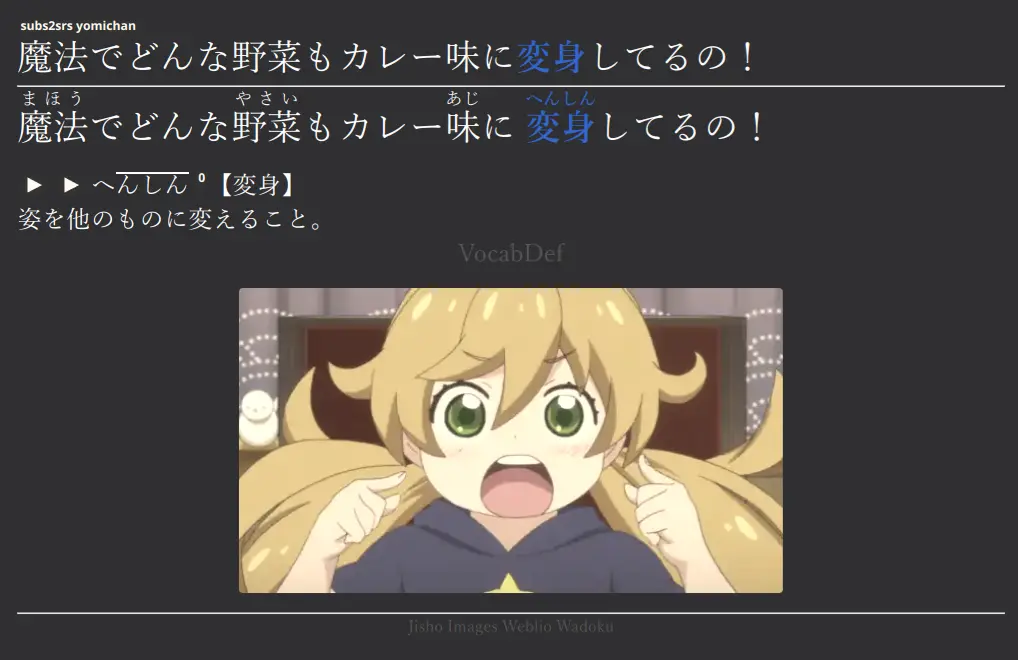
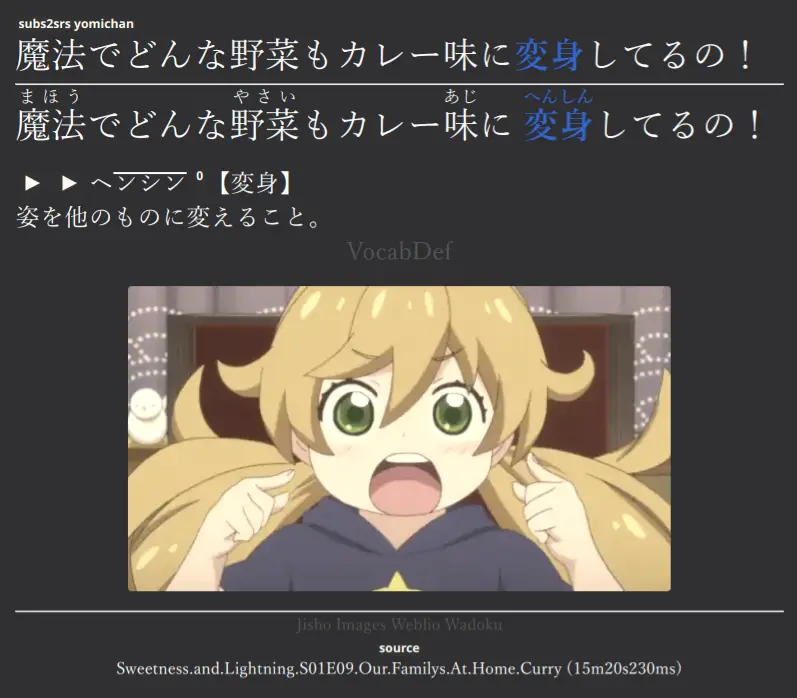
templates: cyphar: add source field
Update the "Japanese Mined Sentences (cyphar)" template to include the
source field (which is now supported by mpvacious). Also rename the
model name to match the actual name I use in Anki (but keep the template
directory name the same).

diff --git a/templates/Japanese Mined Sentences (cyphar)/README.md b/templates/Japanese Mined Sentences (cyphar)/README.md
@@ -25,6 +25,15 @@ template][original-template], with the following modifications made to the
    I find that if both definitions are visible, my eyes immediately go to the
    bilingual definition even if it wasn't necessary for me to do so.
 
+ * A new field is added `Source`, which is useful for storing information about
+   where you mined a sentence from (be it from mpvacious or Yomichan when
+   browsing some website). This can be quite handy if you find that you need to
+   adjust the sentence some time later (or add a different image on the back).
+
+   To use this with mpvacious, you need to be using a version which includes
+   [this pull-request I wrote][mpvacious-pr36], which adds support for
+   specifying a "miscellaneous information". Set `miscinfo_field=Source`.
+
 I personally use these cards for sentence mining with Yomichan and Mpvacious.
 
 |           Front           |
@@ -36,6 +45,7 @@ I personally use these cards for sentence mining with Yomichan and Mpvacious.
 | ![back](card_back_monolingual.webp)  | ![back](card_back_multilingual.webp) |
 
 [original-template]: ../Japanese%20sentences/
+[mpvacious-pr36]: https://github.com/Ajatt-Tools/mpvacious/pull/36
 
 ## Included card types
 
@@ -79,6 +89,16 @@ highlighting yourself (or don't want to highlight the target word on the card
 front), use `{sentence}` instead. Note that Yomichan can be a bit peculiar when
 deciding how much of a conjugated verb counts as "part" of the verb, so double
 check that you're happy with the automatic highlighting.
+
+Note that Yomichan will happily include the URL (and screenshot) of the
+standalone search window (such as when you're using the clipboard monitor with
+mpvacious), which isn't very useful. The card type has some JavaScript which
+will auto-hide URLs that have the `moz-extension://` protocol (as well as
+images if there was only `moz-extension://` URL sources from Yomichan), but
+you'll need to make sure you use the format described above -- it will only
+work if it's wrapped in a `id="yomichan-source"` node. Alternatively, you can
+create a conditional profile for `moz-extension://` pages in Yomichan so that
+URLs aren't included when using the search window (this is what I do).
 
 ## Japanese Support settings
 
